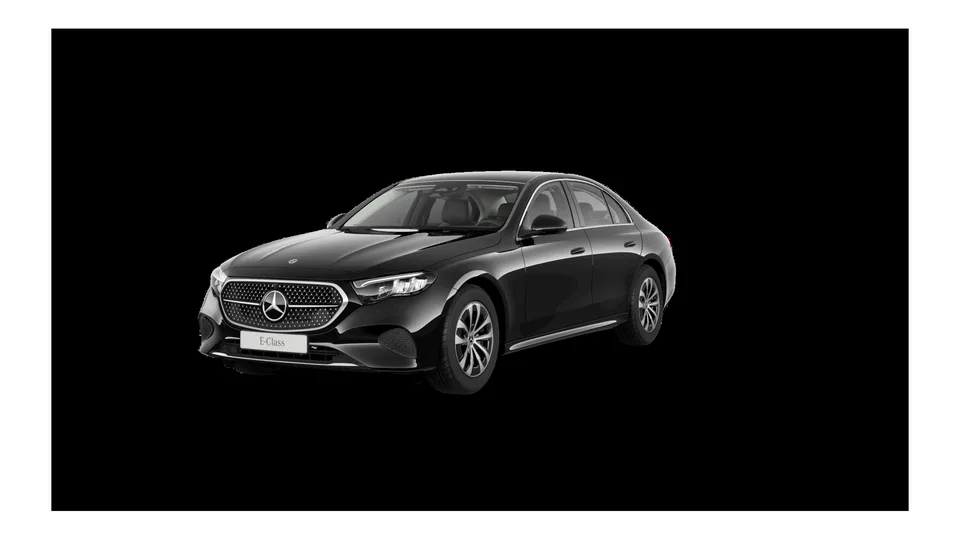
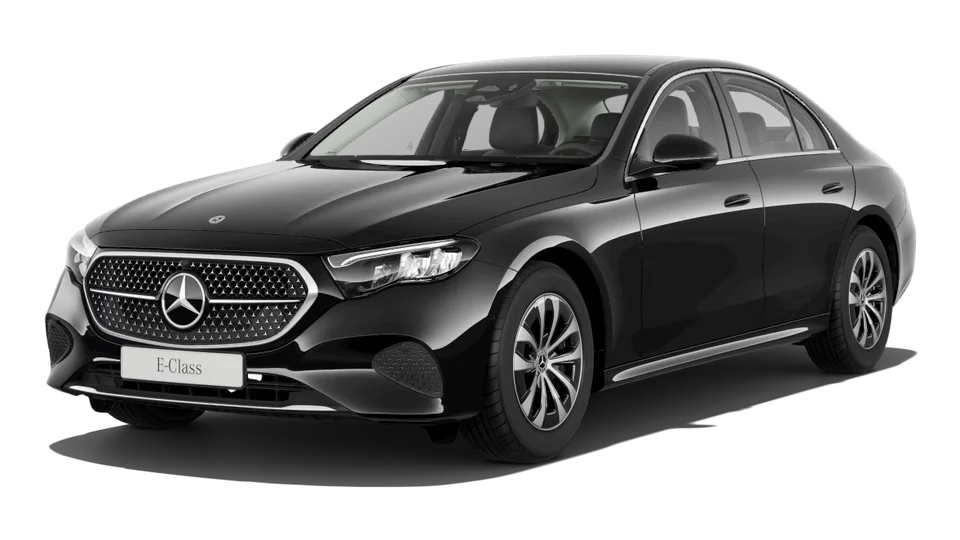
Classe E détourée sur fond sombre
Claude-Session: https://claude.ai/code/session_01MpCwpsJEWxfVx1aPG45kbN

diff --git a/templates/home.html b/templates/home.html
@@ -88,7 +88,7 @@
     <div class="fleet">
       <article class="car">
         <span class="tag">Affaires</span>
-        <div class="car-vis car-photo"><picture><source srcset="{{root}}assets/img/flotte/mercedes-classe-e.webp" type="image/webp"><img src="{{root}}assets/img/flotte/mercedes-classe-e.jpg" alt="Mercedes Classe E noire" width="960" height="540" loading="lazy"></picture></div>
+        <div class="car-vis car-photo"><picture><source srcset="{{root}}assets/img/flotte/mercedes-classe-e.webp" type="image/webp"><img src="{{root}}assets/img/flotte/mercedes-classe-e.png" alt="Mercedes Classe E noire" width="960" height="540" loading="lazy"></picture></div>
         <h3>Mercedes Classe E</h3>
         <div class="specs"><div><b>3</b><small>Passagers</small></div><div><b>3</b><small>Valises</small></div></div>
         <p>Confort feutré et discrétion, idéale pour les trajets d'affaires, l'aéroport et les gares.</p>

diff --git a/assets/style.css b/assets/style.css
@@ -378,5 +378,5 @@ a.svc:hover h3{color:#8a6f3c}
 /* Visuels de la flotte : même cadre pour photos et dessins */
 .car-vis{aspect-ratio:16/9;display:grid;place-items:center;margin:4px 0;background:radial-gradient(circle at 50% 60%,rgba(184,154,94,.08),transparent 65%)}
 .car-vis svg{width:88%;margin:0}
-.car-photo{background:#fff;overflow:hidden}
-.car-photo picture,.car-photo img{width:100%;height:100%;display:block;object-fit:cover}
+.car-photo{overflow:hidden}
+.car-photo picture,.car-photo img{width:100%;height:100%;display:block;object-fit:contain}
